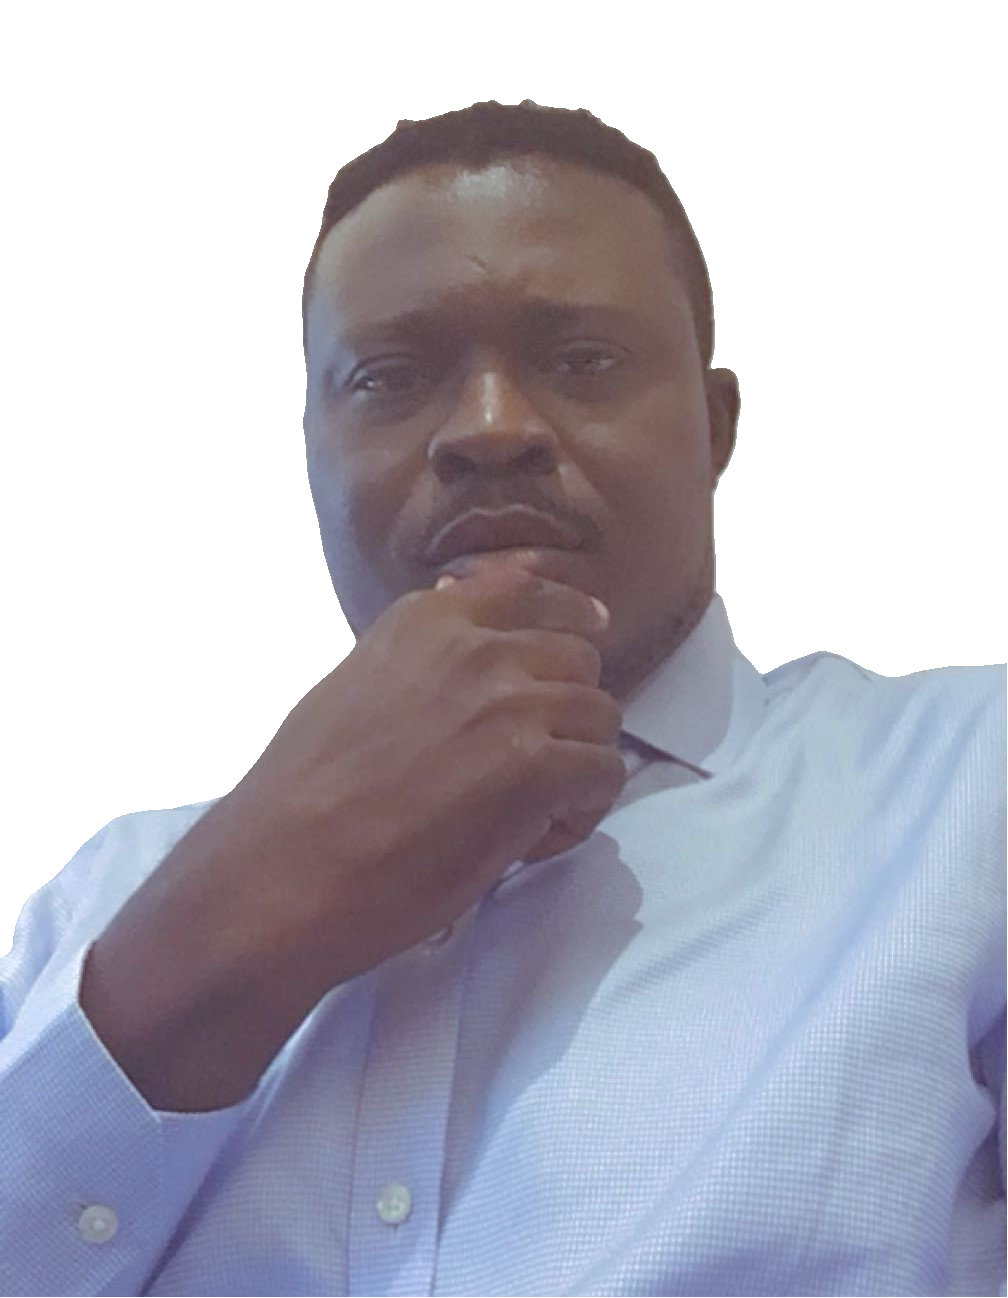
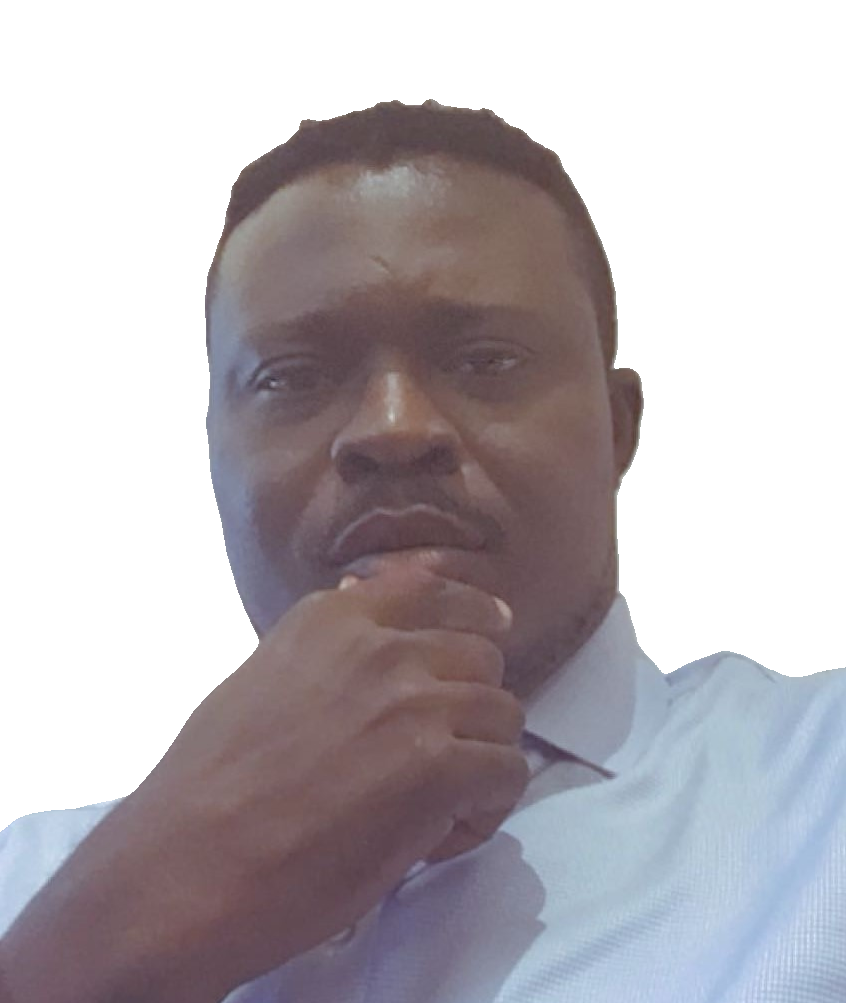
Feat: Third Commit with full pages completed

diff --git a/myportfolio/src/app/Components/About/About.jsx b/myportfolio/src/app/Components/About/About.jsx
@@ -1,28 +1,28 @@
 import React from 'react';
-import { FaMagento, FaPaintBrush, FaCode } from "react-icons/fa";
+import { FaArrowAltCircleRight } from "react-icons/fa";
 
 export default function About() {
   return (
-    <div className="text-white flex flex-col md:flex-row items-center justify-center bg-black shadow-xl mx-0 md:mx-20 bg-opacity-30 rounded-lg p-12">
+    <div id='About' className="text-white flex flex-col md:flex-row items-center justify-center bg-black shadow-xl mx-0 md:mx-20 bg-opacity-50 rounded-lg p-12">
       <div className="w-full md:w-1/3 lg:w-1/4 mb-8 md:mb-0">
-        <h2 className="text-2xl md:text-4xl font-bold ml-16 mb-8">About</h2>
-        <img className="w-60 rounded-full" src="/adenomo.jpeg" alt="About img" />
+        <h2 className="text-2xl md:text-4xl font-bold ml-16 mb-8 text-gray-600">About</h2>
+        <img className="w-60 rounded-full" src="/adenomo1.jpeg" alt="About img" />
       </div>
 
       <div className="w-full md:w-2/3 lg:w-3/4 md:pl-8">
         <ul>
           <div className="flex gap-3 py-4">
-            <FaMagento size={30} className="mt-1" />
+            <FaArrowAltCircleRight color='gray' size={30} className="mt-1" />
             <span className="w-full md:w-96 lg:w-full">
               <h1 className="text-xl md:text-2xl font-semibold leading-normal">Frontend Developer</h1>
               <p className="text-sm md:text-md leading-tight">
-                Lorem ipsum dolor sit amet consectetur adipisicing elit. Sit dolor quae perferendis dolorum pariatur nisi hic, officiis totam ad adipisci quos commodi aperiam omnis? Provident velit suscipit modi vel veniam?
+                Lorem ipsum dolor sit amet consectetur adipisicing elit. Sit dolor quae perferendis dolorum ?  vel veniam?
               </p>
             </span>
           </div>
 
           <div className="flex gap-3 py-4">
-          <FaMagento size={30} className="mt-1" />
+          <FaArrowAltCircleRight color='gray' size={30} className="mt-1" />
             <span className="w-full md:w-96 lg:w-full">
               <h1 className="text-xl md:text-2xl font-semibold leading-normal">Product Design Developer</h1>
               <p className="text-sm md:text-md leading-tight">
@@ -32,11 +32,11 @@ export default function About() {
           </div>
 
           <div className="flex gap-3 py-4">
-          <FaMagento size={30} className="mt-1" />
+          <FaArrowAltCircleRight color='gray' size={30} className="mt-1" />
             <span className="w-full md:w-96 lg:w-full">
               <h1 className="text-xl md:text-2xl font-semibold leading-normal">Backend Developer</h1>
               <p className="text-sm md:text-md leading-tight">
-                Lorem ipsum dolor sit amet consectetur adipisicing elit. Sit dolor quae perferendis dolorum pariatur nisi hic, officiis totam ad adipisci quos commodi aperiam omnis.
+                Lorem ipsum dolor sit amet consectetur adipisicing elit. Sit dolor quae perferendis dolorum 
               </p>
             </span>
           </div>

diff --git a/myportfolio/src/app/Components/Experience/Experience.jsx b/myportfolio/src/app/Components/Experience/Experience.jsx
@@ -11,6 +11,7 @@ import { FaAmazon } from 'react-icons/fa';
 import { SiMui } from "react-icons/si";
 
 
+
 export default function Experience() {
   return (
     <div id="Experience" className="p-10 ml-16 md:p-24">
@@ -39,7 +40,7 @@ export default function Experience() {
                     <FaReact color="#61DAF8" size={50} />
                 </span>
                 <span className="p-3 bg-zinc-950 flex items-center rounded-2xl">
-                    <SiNetlify color="white" size={50} />
+                    <SiNetlify color="cyan" size={50} />
                 </span>
                 <span className="p-3 bg-zinc-950 flex items-center rounded-2xl">
                     <SiMui  color="blue" size={50} />
@@ -52,8 +53,8 @@ export default function Experience() {
                 <h2 className="leading-tight">Software Engineer, Google</h2>
                 <p className="text-sm leading-tight font-thin">June 2024 - Present</p>
                 <ul className="text-sm p-2">
-                    <li>- work as software Developer</li>
-                    <li>- junior SDE Developer</li>
+                    <li className='capitalize'>- work as software Developer</li>
+                    <li className='capitalize'>- junior SDE Developer</li>
                 </ul>
             </span>
             </div>
@@ -63,8 +64,8 @@ export default function Experience() {
                 <h2 className="leading-tight">Software Engineer, Netflix</h2>
                 <p className="text-sm leading-tight font-thin">June 2024 - Present</p>
                 <ul className="text-sm p-2">
-                    <li>- work as software Developer</li>
-                    <li>- junior SDE Developer</li>
+                    <li className='capitalize'>- work as software Developer</li>
+                    <li className='capitalize'>- junior SDE Developer</li>
                 </ul>
             </span>
             </div>
@@ -74,8 +75,8 @@ export default function Experience() {
                 <h2 className="leading-tight">Software Engineer, Amazon</h2>
                 <p className="text-sm leading-tight font-thin">June 2024 - Present</p>
                 <ul className="text-sm p-2">
-                    <li>- work as software Developer</li>
-                    <li>- junior SDE Developer</li>
+                    <li className='capitalize'>- work as software Developer</li>
+                    <li className='capitalize'> - junior SDE Developer</li>
                 </ul>
             </span>
             </div>

diff --git a/myportfolio/src/app/Components/Navbar/Navbar.jsx b/myportfolio/src/app/Components/Navbar/Navbar.jsx
@@ -7,8 +7,8 @@ export default function Navbar() {
   const [showMenu, setShowMenu] = useState(true);
 
   return (
-    <nav className='flex flex-wrap justify-between md:items-center text-white px-10 pt-6 md:px-20'>
-      <span className="text-xl font-bold tracking-wide">My Portfolio</span>
+    <nav className='flex flex-wrap justify-between md:items-center text-amber-500 px-10 pt-6 md:px-20'>
+      <span className="text-xl font-bold tracking-wide hover:text-white">My Portfolio</span>
 
       <ul 
       className={`${
@@ -16,23 +16,23 @@ export default function Navbar() {
         } mx-24 py-2 mt-4 font-semibold md:mt-5 bg-black px-2 rounded-xl bg-opacity-30 md:border-none text-center md:bg-transparent md:static md:mx-0 md:flex gap-6`}>
 
         <a href="#Experience">
-          <li className="text-md transition-all duration-300 p-1 md:p-0">
-            Experience-
+          <li className="text-md transition-all duration-300 p-1 md:p-0 hover:text-white">
+            Experience
           </li>
         </a>
-        <a href="#Project">
-          <li className="text-md transition-all duration-300 p-1 md:p-0">
-            Projects-
+        <a href="#Projects">
+          <li className="text-md transition-all duration-300 p-1 md:p-0 hover:text-white">
+            Projects
           </li>
         </a>
         <a href="#About">
-          <li className="text-md transition-all duration-300 p-1 md:p-0">
-            About-
+          <li className="text-md transition-all duration-300 p-1 md:p-0 hover:text-white">
+            About
           </li>
         </a>
         <a href="#Contact">
-          <li className="text-md transition-all duration-300 p-1 md:p-0">
-            Contact-
+          <li className="text-md transition-all duration-300 p-1 md:p-0 hover:text-white">
+            Contact
           </li>
         </a>
       </ul>

diff --git a/myportfolio/src/app/Components/Home/Home.jsx b/myportfolio/src/app/Components/Home/Home.jsx
@@ -4,11 +4,11 @@ export default function Home() {
   return (
     <div className="text-white flex w-full justify-between items-start p-10 md:p-20">
         <div className="md:w-2/4 md:pt-10">
-        <h1 className="text-3xl md:text-5xl font-bold flex leading-normal tracking-tighter">Hello' I am Genesis Patrick</h1>
-        <p className="text-sm md:text-2xl tracking-tight">Lorem ipsum dolor, sit amet consectetur adipisicing elit. Neque tempora, deleniti velit magnam, omnis enim suscipit natus impedit!
+        <h1 className="text-3xl md:text-5xl font-bold text-amber-500 flex leading-normal tracking-tighter hover:text-orange-600">Hello' I am Genesis Patrick..</h1>
+        <p className="text-sm md:text-2xl tracking-tight hover:text-amber-600">Lorem ipsum dolor, sit amet consectetur adipisicing elit. Neque tempora, deleniti velit magnam, omnis enim suscipit natus impedit!
         </p>
-
-        <button className="mt-5 md:md-10 text-white py02 px-3 text-sm md:text-lg md:py-2 md:px-4 hover:opacity-85 duration-300 hover:scale-105 font-semibold rounded-full bg-[#465697] ">Contact Me</button>
+        <a href="#Contact">
+        <button className="mt-5 md:md-10 text-white px-3 text-sm md:text-lg md:py-2 md:px-4 hover:opacity-85 duration-300 hover:scale-105 font-semibold rounded-full bg-amber-700 ">Contact Me</button> </a>
         </div>
         <div><img className="w-60 rounded-full" src="genesis.png" alt="Genesis img" /></div>
     </div>

diff --git a/myportfolio/src/app/Components/Footer/Footer.jsx b/myportfolio/src/app/Components/Footer/Footer.jsx
@@ -1,0 +1,32 @@
+import React from 'react'
+import { MdOutlineEmail } from "react-icons/md";
+import { CiLinkedin } from "react-icons/ci";
+import { FaGithub } from "react-icons/fa";
+
+export default function Footer() {
+  return (
+    <div 
+    id='Contact'
+    className='flex justify-around bg-gray-900 text-white p-10 md:p-12 items-center'>
+        <div>
+            <h1 className="text-2xl md:text-6xl text-amber-700 font-bold">Contact</h1>
+            <h3 className='text-sm md:text-2xl font-normal capitalize'>
+                Feel Free to reach out! </h3>
+        </div>
+        <ul className='text-sm md:text-xl'>
+            <li className='flex items-center gap-1'>
+            <MdOutlineEmail  size={30}/>
+            genesispatrick@gmail.com
+            </li>
+            <li className='flex items-center gap-2'>
+            <CiLinkedin size={30}/>
+            linkedin.com/username
+            </li>
+            <li className='flex items-center gap-2'>
+            <FaGithub size={30}/>
+            github.com/username
+            </li>
+        </ul>
+    </div>
+  )
+}

diff --git a/myportfolio/src/app/Components/Projects/ProjectsCard.jsx b/myportfolio/src/app/Components/Projects/ProjectsCard.jsx
@@ -1,0 +1,21 @@
+import React from 'react'
+
+export default function ProjectsCard({title, main}) {
+  return (
+    <div className='p-3 md:p-6 flex flex-col w-80 bg-black shadow-xl shadow-slate-900 rounded-2xl'>
+        <img className='p-4' src="biggee1.jpeg" alt="biggee image" />
+        <h3 className='px-4 text-2xl md:text-2xl font-bold leading-normal'>
+            {title}
+        </h3>
+        <p className='p-4 text-sm md:text-md leading-tight capitalize py-2'>{main}</p>
+        <div className='mt-2 p-2 md:p-4 flex gap-2 md:gap-4'> 
+            <button className='md:mt-10 text-white py-2 px-3 text-sm md:text-lg md:py-2 md:px-4 hover:opacity-85 duration-300 hover:scale-105 font-semibold rounded-lg bg-amber-700 capitalize '>
+                demo
+            </button>
+            <button className='md:mt-10 text-white py-2 px-3 text-sm md:text-lg md:py-2 md:px-4 hover:opacity-85 duration-300 hover:scale-105 font-semibold rounded-lg bg-amber-900 capitalize '>
+                source code
+            </button>
+        </div>
+    </div>
+  )
+}

diff --git a/myportfolio/src/app/Components/Projects/Projects.jsx b/myportfolio/src/app/Components/Projects/Projects.jsx
@@ -1,0 +1,25 @@
+import React from 'react'
+import ProjectsCard from './ProjectsCard'
+
+
+export default function Projects() {
+  return (
+    <div id='Projects' className='p-10 md:p-24 text-white'>
+        <h1 className="text-2xl font-bold md:text-4xl text-white ml-16 ">Projects</h1>
+        <div className='py-12 px-8 flex flex-wrap gap-5 items-center justify-around'>
+            <ProjectsCard 
+            title="Blogging Website"
+            main="this is a blogging website created in next.js and used react component library"
+             />
+            <ProjectsCard 
+            title="Fashion Website" 
+            main="this is a blogging website created in next.js and used react component library" 
+            />
+            <ProjectsCard 
+            title="Youtube Clone" 
+            main="this is a blogging website created in next.js and used react component library" 
+            />
+        </div>
+    </div>
+  )
+}

diff --git a/myportfolio/src/app/layout.jsx b/myportfolio/src/app/layout.jsx
@@ -3,6 +3,8 @@ import Home from "./Components/Home/Home";
 import "./globals.css";
 import About from "./Components/About/About";
 import Experience from "./Components/Experience/Experience";
+import Projects from "./Components/Projects/Projects";
+import Footer from "./Components/Footer/Footer";
 
 
 
@@ -21,6 +23,9 @@ export default function RootLayout({ children }) {
         <Home />
         <About />
         <Experience />
+        <Projects />
+        <Footer />
+        
 
         {children}
       </body>
